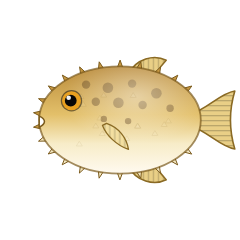
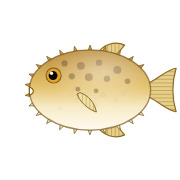
1.2.8: pufferfish images stored at three-quarter size (about 100 KB smaller, same look on screen)
Claude-Session: https://claude.ai/code/session_01TjXjoGUoKzCAKPjEBqhxMT

diff --git a/tools/make-art.js b/tools/make-art.js
@@ -790,8 +790,8 @@ function pufferArt(t, whole) {
   <path d="M${mx},${f(my - 5)} C${f(mx - 7)},${f(my - 2)} ${f(mx - 7)},${f(my + 3)} ${mx},${f(my + 6)} Z" fill="#fff" stroke="#7a5a1c" stroke-width="1.5"/>
   ${eye(ex, ey, f(L(9, 11.5)), '#e8a020')}`;
 }
-asset('puffer_body', 240, 240, () => pufferArt(0, false));
-for (let i = 0; i < PUFF_FRAMES; i++) asset('puffer_f' + i, 240, 240, () => pufferArt(i / (PUFF_FRAMES - 1), true));
+asset('puffer_body', 240, 240, () => pufferArt(0, false), 0.75);
+for (let i = 0; i < PUFF_FRAMES; i++) asset('puffer_f' + i, 240, 240, () => pufferArt(i / (PUFF_FRAMES - 1), true), 0.75);
 asset('puffer_tail', 50, 70, () => `<defs>${finRays('fr', 0.2, 90, 5)}</defs>
   ${fin('M48,28 C34,24 20,8 6,6 C12,26 12,44 6,64 C20,62 34,46 48,42 Z', '#e9cf86', '#8a6a24', 1.6)}`);
 asset('puffer_pec', 30, 30, () => `<defs>${finRays('fr', 0.18, 0, 5)}</defs>
